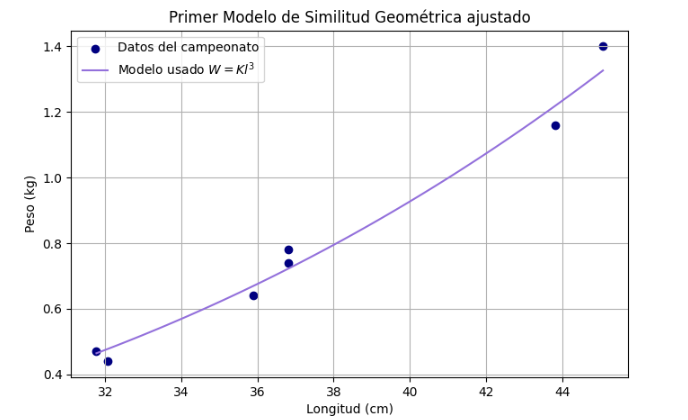
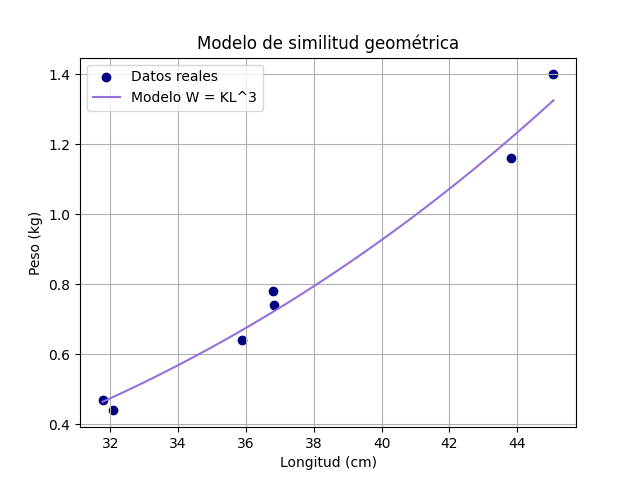
feat:Escribir código y crear gráficas

diff --git a/models.py b/models.py
@@ -2,81 +2,64 @@
 """
 models.py
 
-(Por favor modifica o elimina este comentario) 
-Es recomendable que escribas unas cuantas líneas
-explicando el propósito de cada código. Te propongo
-que utilices este archivo para que escribas las
-funciones principales que vayas a reutilizar en
-tus otras prácticas
+Aquí se encuntran las funciones reutilizables para construir y evaluar los
+modelos de similitud geométrica entre la longitud y el peso de los peces.
+Hay funciones para estimar la constante K del modelo W = K L^3,
+calcular pesos de la competencia, medir la correlación de Pearson y calcular error
+entre predicción y datos reales.
 """
 import numpy as np
-import matplotlib.pyplot as plt
 
 def cal_k_constante(longitudes, pesos):
-    k_valores = pesos / (longitudes**3)
+    """Calculamos la constante K del modelo W = K L^3."""
+    longitudes = np.array(longitudes)
+    pesos = np.array(pesos)
+
+    k_valores = pesos / (longitudes ** 3)
     return np.mean(k_valores)
 
-def relacion_lineal_modpearson(x, y):
-    relac_lineal = np.corrcoef(x, y)[0,1]
-    return relac_lineal
 
-def modelo_geom(longitudes: list[float]) -> list[float]:
-    pesos_predichos = []
+def modelo_geom(longitudes: list[float], K: float) -> list[float]:
+    """
+    Modelo de similitud geométrica.
+    longitudes= lista de longitudes de peces (en cm)
+    K es la constante del modelo
+    Regresa la lista de pesos de la competencia usando W = K L^3
+    """
+    pesos_competencia = []
 
     for L in longitudes:
-        W = K_optimo * (L**3)
-        pesos_predichos.append(W)
+        W = K * (L ** 3)
+        pesos_competencia.append(W)
 
-    return pesos_predichos
+    return pesos_competencia
 
-longitud = np.array([36.81, 31.77, 43.82, 36.82, 32.07, 45.07, 35.89])
-peso_campeonato = np.array([0.78, 0.47, 1.16, 0.74, 0.44, 1.40, 0.64])
-
-K_optimo = cal_k_constante(longitud, peso_campeonato)
-
-peso_predicho = modelo_geom(longitud)
-
-r = relacion_lineal_modpearson(longitud**3, peso_campeonato)
-
-plt.figure(figsize=(8,5))
-plt.scatter(longitud, peso_campeonato, color='navy', label='Datos del campeonato')
-
-l_espacio = np.linspace(min(longitud), max(longitud), 100)
-plt.plot(l_espacio, K_optimo * (l_espacio**3), color='mediumpurple', label='Modelo usado $W = Kl^3$')
-
-plt.xlabel('Longitud (cm)')
-plt.ylabel('Peso (kg)')
-plt.title('Primer Modelo de Similitud Geométrica ajustado')
-
-plt.legend()
-plt.grid(True)
-plt.show()
-
-    """
-    longitudes: list[float] representa la lista de longitudes (en cm) de los peces se usa para calcular los pesos de los mismos. 
-
-    """
-    ... # Puedes eliminar esta línea
 
 def modelo_circ(longitudes: list[float]) -> list[float]:
     """
-    longitudes: list[float] ¿Qué significa longitudes? 
-    (Por favor elimina la pregunta y reemplazala con su respuesta)
-    ...
+    Modelo donde el peso depende del área (~ L^2)
+    longitudes: lista de longitudes de peces (en cm)
+    Regresa pesos proporcionales a L^2
     """
-    ... # Puedes eliminar esta línea
+    pesos = []
 
-def pearson(x:list[float], y: list[float]):
-    """Calcula el coeficiente de pearson"""
-    ...
+    for L in longitudes:
+        pesos.append(L ** 2)
 
-def calc_error(pred:list[float], truth: list[float]):
-    """Calcula el error entre una predicción y la verdad del dataset"""
+    return pesos
 
-def main():
-    ... # Puedes eliminar esta línea
 
-if __name__ == "__main__":
-    # Si necesitas hacer pruebas de tu función las puedes escribir acá
-    main()
+def pearson(x: list[float], y: list[float]):
+    """Calcula el coeficiente de correlación de Pearson."""
+    x = np.array(x)
+    y = np.array(y)
 
+    return np.corrcoef(x, y)[0, 1]
+
+
+def calc_error(pred: list[float], truth: list[float]):
+    """Calcula el error cuadrático medio entre predicción y datos reales."""
+    pred = np.array(pred)
+    truth = np.array(truth)
+
+    return np.mean((pred - truth) ** 2)

diff --git a/main.py b/main.py
@@ -1,24 +1,63 @@
 #!/usr/bin/env python
 
 import matplotlib.pyplot as plt
-from models import calc_error, modelo_geom, modelo_circ
+from models import calc_error, modelo_geom, modelo_circ, cal_k_constante
+import numpy as np
 
+def plot_ejercicio1(longitudes, pesos):
 
-def make_plot():
-    """
-    (Si no modificas esta cadena de texto lloro)
-    Si repites mucho tu código para
-    graficar puedes guardarlo en una función
-    """
-    ... # Esto significa implementación pendiente, lo puedes eliminar
+    L3 = np.array(longitudes)**3
+
+    plt.scatter(L3, pesos, color="turquoise")
+
+    plt.xlabel("L^3")
+    plt.ylabel("Peso (kg)")
+    plt.title("Relación entre W y L^3")
+
+    plt.grid(True)
+
+    plt.savefig("grafica1.png")
+    plt.show()
+    plt.close()
+
+def make_plot(longitudes, pesos, K):
+
+    plt.scatter(longitudes, pesos, color="navy", label="Datos reales")
+
+    l_espacio = np.linspace(min(longitudes), max(longitudes), 100)
+
+    plt.plot(l_espacio, K*(l_espacio**3),
+             color="mediumpurple",
+             label="Modelo W = KL^3")
+
+    plt.xlabel("Longitud (cm)")
+    plt.ylabel("Peso (kg)")
+    plt.title("Modelo de similitud geométrica")
+    plt.legend()
+    plt.grid(True)
+
+    plt.savefig("grafica_modelo1.png")
+    plt.show()
+    plt.close()
 
 def main():
+
+    longitudes = [36.81, 31.77, 43.82, 36.82, 32.07, 45.07, 35.89]
+    pesos = [0.78, 0.47, 1.16, 0.74, 0.44, 1.40, 0.64]
+
+    plot_ejercicio1(longitudes, pesos) 
+    K = cal_k_constante(longitudes, pesos)
+    make_plot(longitudes, pesos, K)
+    pred = modelo_geom(longitudes, K)
+    error = calc_error(pred, pesos)
+
+    print("Constante K:", K)
+    print("Error del modelo:", error)
     """
     (Si no modificas esta cadena de texto lloro)
     Aquí va el código, recuerda reutilizar el 
     código que ya escribiste en otros archivos
     """
-    ... # Esto significa implementación pendiente, lo puedes eliminar
 
 if __name__ == "__main__":
     main()
